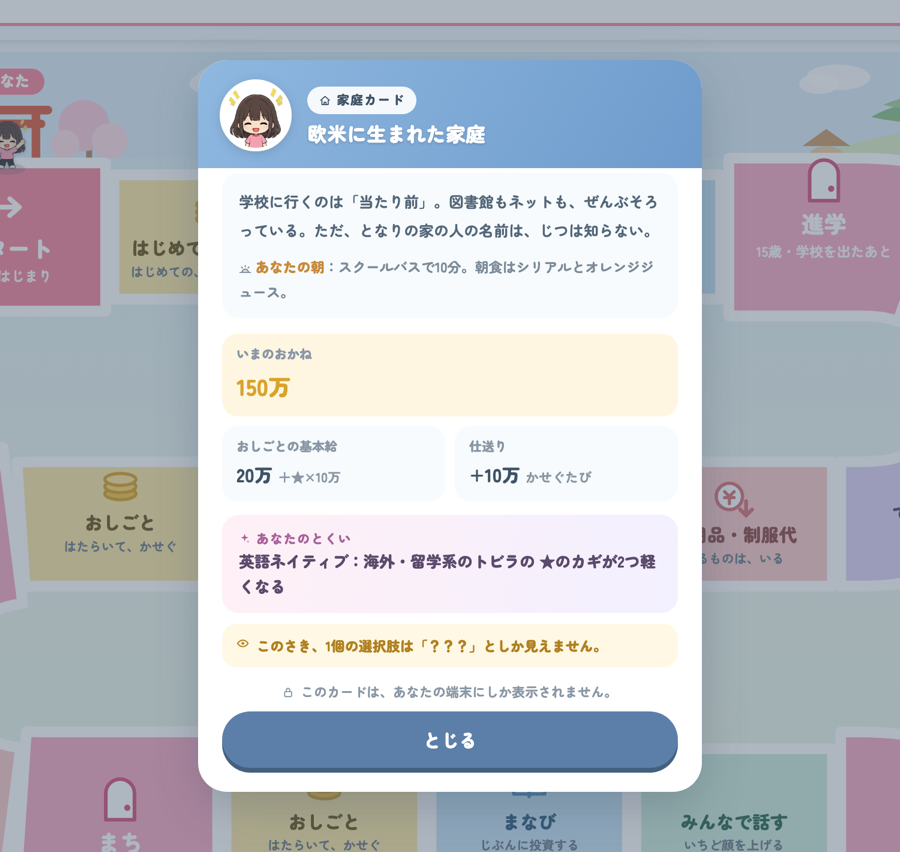
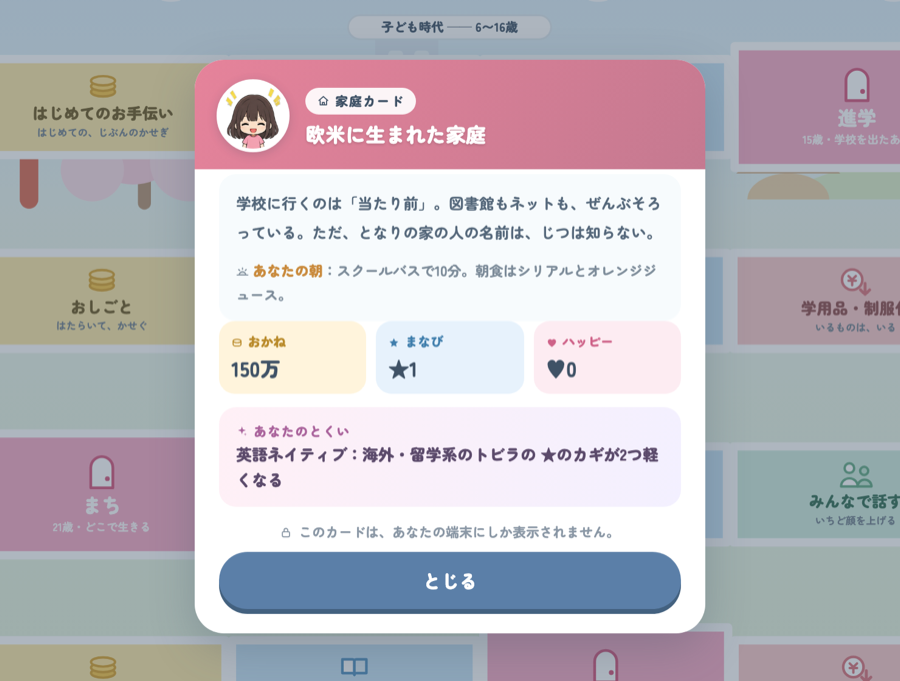
資料をゲームの現状に追従（カード・トビラの2段階化・Storybook撮影へ）
ゲーム側の更新（家庭カードの整理、トビラの選び方の作りなおし）に資料を合わせた。

- 家庭カードから基本給・仕送り・「？？？の枚数」の表示が消えたので、
  スライド5の文言を「カードに出るのは物語・持ちもの・とくいだけ。
  基本給と掛け率は画面に出ないまま効き続ける」に変更。数字を出すのはこのスライドだけに
- トビラの選び方が2段階（一覧→確認）になったので、スライド11を作りなおし。
  一覧＋確認の2枚を矢印でつなぎ、「開けてみるまで開くか分からない」を芯にした
- かせぎの式のスライドから「さっきカードで見たとおり」を削除
- 音・あそびかた・じぶんのカードのボタンを台本のルール説明に追加
- スクリーンショットは Storybook のストーリーから撮る方式に変更。
  実物のゲーム画面を preview API で描くので、app.js への一時フックが不要になった。
  使用ストーリーIDと手順を SLIDES_BRIEF.md に記載

diff --git a/slides.html b/slides.html
@@ -109,6 +109,11 @@ h1 .em-g{color:var(--money);}
 
 /* 横長スクリーンショットを大きく見せる積みレイアウト */
 .figstack{display:flex; flex-direction:column; align-items:center; gap:1.6vmin; width:100%; min-height:0; flex:1;}
+.figpair{display:flex; align-items:center; justify-content:center; gap:1.6vmin; width:100%; min-height:0; flex:1;}
+.figpair figure{display:flex; flex-direction:column; align-items:center; gap:.8vmin; min-height:0; height:100%; flex:1 1 0;}
+.figpair img{min-height:0; flex:1; width:100%; object-fit:contain;}
+.figpair figcaption{font-size:1.9vmin; font-weight:900; color:var(--btn);}
+.figpair .arrow{flex:none; font-size:4vmin; font-weight:900; color:var(--pink);}
 .figstack .fig{min-height:0; flex:1; width:100%; display:flex; align-items:center; justify-content:center;}
 .figstack .fig img{max-width:100%; max-height:100%; min-height:0; object-fit:contain;}
 .notes{display:grid; grid-template-columns:repeat(3,1fr); gap:1.4vmin; width:92vw; max-width:1600px;}
@@ -296,7 +301,7 @@ h1 .em-g{color:var(--money);}
     <figure><img class="shot" src="slides/fam5.png" alt="支援と出会えた、ウガンダの遺児の家庭"><figcaption>遺児・<b>支援と出会えた</b>：はじめ20万／基本給10万＋★×5万</figcaption></figure>
     <figure><img class="shot" src="slides/fam6.png" alt="まだ支援と出会えていない、ウガンダの遺児の家庭"><figcaption>遺児・<b>まだ出会えていない</b>：数字は左とまったく同じ</figcaption></figure>
   </div>
-  <p class="lead">ウガンダ育ちは<b>★1つが5万</b>、それ以外は10万——同じ学びでも、実り方が違う。<br>下の2枚は数字がまったく同じで、違うのは<b>支援を知っているかどうか</b>だけ。</p>
+  <p class="lead">カードに出るのは<b>物語・いまの持ちもの・とくい</b>だけ。<br>下に書いた<b>基本給と掛け率は、画面には出ないまま</b>ずっと効き続けます。</p>
 </section>
 
 <!-- ========== 6. 今日いちばん見てほしいこと ========== -->
@@ -373,14 +378,18 @@ h1 .em-g{color:var(--money);}
 <section class="slide" data-part="ルール" data-ic="door">
   <div class="kicker pink"><svg class="ic"><use href="#ic-door"/></svg>トビラとカギ — ここがこのゲームの核心</div>
   <div class="figstack">
-    <div class="fig"><img class="shot" src="slides/choice.png" alt="トビラの選択画面"></div>
+    <div class="figpair">
+      <figure><img class="shot" src="slides/choicelist.png" alt="トビラの選択肢一覧"><figcaption>1. どの道を選ぶか</figcaption></figure>
+      <span class="arrow">→</span>
+      <figure><img class="shot" src="slides/confirmlock.png" alt="カギが足りなかった確認画面"><figcaption>2. 開くかどうかは、選んでから分かる</figcaption></figure>
+    </div>
     <div class="notes">
-      <div class="note"><span class="t" style="color:#4CA872"><svg class="ic"><use href="#ic-door"/></svg>開ける</span>
-        <span class="d">カギ（おかね・★まなび）が足りている。0円の道はいつでも選べる</span></div>
-      <div class="note"><span class="t" style="color:#C98A3C"><svg class="ic"><use href="#ic-lock"/></svg>カギ不足</span>
-        <span class="d">見えてはいる。でも、いま足りない</span></div>
+      <div class="note"><span class="t"><svg class="ic" style="color:var(--pink)"><use href="#ic-door"/></svg>一覧に出るのは名前だけ</span>
+        <span class="d">カギがいくつ必要かは、ここでは分からない</span></div>
+      <div class="note"><span class="t" style="color:#C98A3C"><svg class="ic"><use href="#ic-lock"/></svg>選んで、はじめて分かる</span>
+        <span class="d">カギが足りなければ「このトビラは開かなかった」。カギの要らない道は必ず選べる</span></div>
       <div class="note"><span class="t" style="color:#7E6BC4"><svg class="ic"><use href="#ic-eye"/></svg>？？？</span>
-        <span class="d">そもそも中身が見えない。何があったのかも分からない</span></div>
+        <span class="d">そもそも中身が見えない。選ぶことすらできない</span></div>
     </div>
   </div>
 </section>
@@ -392,7 +401,7 @@ h1 .em-g{color:var(--money);}
     <div class="fig"><img class="shot" src="slides/money.png" alt="おしごとマスの画面"></div>
     <div class="band" style="font-size:2.7vmin;">
       かせぎ ＝ <span class="hi-b">基本給</span> ＋ ★まなび × <span class="hi-b">掛け率</span> ＋ 仕送り<br>
-      <span style="font-size:2.2vmin; font-weight:700;">この基本給も掛け率も、<span class="hi">家庭カードで決まっています</span>。同じマス・同じ★でも、入るお金は違う</span>
+      <span style="font-size:2.2vmin; font-weight:700;">この基本給も掛け率も、<span class="hi">生まれた場所で決まっています</span>。<br>カードには出てきません。<b>この画面ではじめて見える数字</b>です</span>
     </div>
   </div>
 </section>

diff --git a/SLIDES_SCRIPT.md b/SLIDES_SCRIPT.md
@@ -24,8 +24,8 @@
 
 - 学生募金の学生は、いずれ**この教材を届ける側**になる。設計が分かっていないと届けられない
 - 6枚を先に見ることで「自分に配られた1枚が、6つのうちのどれか」という緊張が最初から立つ
-- **伏せたままなのは「？？？」の中身のほう。** カードには「このさきN個の選択肢は？？？としか見えません」
-  としか出ないので、**結果発表の種明かし（本当は何だったのか）は今までどおり効きます**
+- **伏せたままなのは「？？？」の中身のほう。** カード自体にはヒントも出ないので、
+  **結果発表の種明かし（本当は何だったのか）は今までどおり効きます**
 
 → この判断が正しかったかは、検証パート（スライド28）で学生に聞いてください。
 
@@ -112,8 +112,17 @@
 
 > ゲームが始まると、**自分の画面にだけ**カードが1枚配られます。この6種類のどれかです。
 > ふつうは自分の1枚しか見られませんが、今日は**先に6枚とも開けて**見ていきます。
+>
+> カードに出るのは、**物語と、いまの持ちものと、とくい**だけ。
+> 下に書いた**基本給と掛け率は、ゲーム中どこにも表示されません。**
+> 表に出ないまま、19年間ずっと効き続けます。
+>
+> 見てほしいのは下の2枚です。おかねも基本給も**まったく同じ**。
+> 違うのは、**支援を知っているかどうか**だけ。
 
-【1枚ずつ読み上げない。「6種類ある」と見せるだけ。次の3枚で拡大する】
+【1枚ずつ読み上げない。下段の遺児2枚だけ指さして対比させる】
+【⚠ カードから「基本給」「仕送り」の表示が外れた（2026-09-14 のゲーム更新）。
+　数字を出すのはこのスライドだけなので、キャプションを読み上げること】
 
 ## 6. 今日いちばん見てほしいこと
 
@@ -170,28 +179,40 @@
 >
 > どのマスも、止まったら画面が出て、**OKを押すと次の人の番**になります。
 
+> 画面の右上に、**「進行」「音」「あそびかた」「じぶんのカード」**のボタンがあります。
+> 音が出ます。うるさければ「音」で切ってください。
+> ルールを忘れたら「あそびかた」、自分のカードを見返すときは「じぶんのカード」です。
+
+【「進行」は進行役だけに出る。手番とばしや参加者を外す操作なので、参加者には説明しなくてよい】
+
 ## 11. トビラとカギ ★ここが核心
 
 > ここがこのゲームの核心です。トビラでは道を選びます。画面を見てください。
 >
-> 選択肢には**3つの状態**があります。
-> ひとつめ、**開ける**。カギ——必要なおかねや★まなび——が足りている状態です。
-> カギの要らない0円の道は、いつでも必ず選べます。詰むことはありません。
+> まず左。**選択肢には名前しか出ません。** どれにカギがいくつ必要かは、ここでは分かりません。
 >
-> ふたつめ、**カギ不足**。鍵マークがついています。見えてはいる。でも、いま足りない。
+> ひとつ選ぶと、右の確認画面になります。
+> ここで**はじめて**カギが出て、足りていれば開く。足りなければ——
+> 「カギが足りない……このトビラは開かなかった」と出て、ほかのトビラを選び直すことになります。
 >
-> みっつめ。**？？？**。これは**そもそも中身が見えない**。何があったのかも分かりません。
+> カギの要らない道は、いつでも必ず選べます。詰むことはありません。
 >
-> この3つの違いを、覚えておいてください。あとで効いてきます。
+> そしてもうひとつ。**？？？**。これは**そもそも中身が見えない**。
+> 名前も分からないので、選ぶことすらできません。
+>
+> つまり——**開けてみるまで、開くかどうか分からない。** これを覚えておいてください。
 
 【？？？が「なぜ見えないのか」はここでは説明しない。結果発表の種明かしが弱くなる】
+【⚠ トビラの選び方が2段階になった（2026-09-14 のゲーム更新）。
+　以前のように一覧で🔒が見えることはもうない。「選んでから分かる」が新しい体験の芯】
 
 ## 12. かせぎの式
 
 > おしごとのマスに止まると、この画面が出ます。
 > **かせぎ ＝ 基本給 ＋ ★まなび × 掛け率 ＋ 仕送り。**
 >
-> さっきカードで見たとおり、**基本給も掛け率も、生まれた場所で決まっています。**
+> **基本給も掛け率も、生まれた場所で決まっています。**
+> そしてこの数字は、**カードにも盤面にも出てきません。この画面ではじめて見えます。**
 > 同じマスに止まって、同じ★を持っていても、入るお金は違う。
 
 【⚠ おしごとのマスは飛びこされやすく、**35%の人は一度も止まらない**（README「この副作用は承知のうえ」）。

diff --git a/SLIDES_BRIEF.md b/SLIDES_BRIEF.md
@@ -118,20 +118,36 @@
 
 ## スクリーンショットの撮りかた（`slides/*.png` を撮りなおすとき）
 
-ゲームの見た目を変えたら、スライドの図も撮りなおす。手順：
+ゲームの見た目を変えたら、スライドの図も撮りなおす。**Storybookから撮るのがいちばん確実**——
+ストーリーは実物のゲーム画面をiframeで描き、`window.__tobira.preview()` で状態を流しこむので、
+一時フックもwranglerも要らない。
 
-1. `public/app.js` の末尾に一時フックを足す。`?shot=<名前>` を読んで、目的の画面まで自動で進め、
-   終わったら `window.__shotReady = true` を立てる。`&bare=1` で背景とヘッダーを消し、モーダルだけにする
-2. `npx wrangler dev` を起動
-3. ヘッドレスChromeをCDP（`--remote-debugging-port`）で叩き、`__shotReady` が立つまで**実時間で待って**
-   `Page.captureScreenshot` の `clip` で要素だけ切り出す。
-   **`--virtual-time-budget` は使わない**——WebSocketの往復を待たずに仮想時間が進み、描画途中で撮れてしまう
-4. `sips --resampleWidth <幅>` で縮める（`-Z` は長辺基準なので縦長の画面が潰れる。使わないこと）
-5. **`git checkout public/app.js` でフックを必ず戻す**
+1. `npm run storybook`（6006番）
+2. `http://localhost:6006/index.json` でストーリーIDを確認
+3. ヘッドレスChromeをCDP（`--remote-debugging-port`）で叩き、
+   `iframe.html?id=<ID>&viewMode=story&globals=locale:ja` を 1440×900・`deviceScaleFactor:2` で開く
+4. **内側のiframeが描き終わるまで実時間で待つ**
+   （`document.querySelector('iframe').contentDocument` の `.screen.active` に中身が入るまで。
+   モーダルつきなら `#modalBox` の幅が10px超になるまで）。
+   **`--virtual-time-budget` は使わない**——描画途中で撮れてしまう
+5. `sips --resampleWidth <幅>` で縮める（`-Z` は長辺基準なので縦長が潰れる。使わないこと）
 
-撮る画面：`lobby` / `fam1`〜`fam6`（6種の家庭カード）/ `board` / `choice`（開ける・🔒・？？？が並ぶ大学のトビラ）/
-`money`（かせぎの式）/ `talk`（はなしあい）/ `result` / `reveal`。
-盤面はタイルがアニメーションで出るので、`#board` に「ゴール」の文字が出るまで待ってから撮ること。
+使っているストーリー：
+
+| ファイル | ストーリーID |
+| --- | --- |
+| `lobby` | `01-lobby-room-entry--initial` |
+| `fam1`〜`fam6` | `05-family-card-family-variants--western / japan / uganda / expat / orphan-with-support / orphan-without-support` |
+| `board` | `03-game-board-turn-states--dice-turn` |
+| `choicelist` | `08-doors-availability-and-confirmation--choice-list-mixed` |
+| `confirmlock` | `08-doors-availability-and-confirmation--confirm-locked-money` |
+| `money` | `06-events-information-and-status-changes--income-gain` |
+| `talk` | `06-events-information-and-status-changes--talk-together` |
+| `result` | `11-results-end-of-game--multiplayer` |
+| `reveal` | `12-reveal-individual-player--mixed-door-states` |
+
+家庭カードの6枚は、カード部分だけ切り出している（`sips -c 1120 1480 --cropOffset 330 700`）。
+盤面が背後に残るのでPC画面と分かる。
 
 ## コンテキスト
 

diff --git a/README.md b/README.md
@@ -282,9 +282,9 @@ Cloudflare Workers + Durable Objects（無料枠）。
 スライドは**ゲーム本体と同じデザイン**（`#F2F9FD` 地・Zen Maru Gothic・絵文字なしのSVGアイコン）で作ってある。
 アイコンは `public/index.html` のスプライトをそのままコピーしているので、**ゲーム側のアイコンを変えたら貼りなおすこと**。
 
-`slides/*.png` は、`?shot=<名前>` で目的の画面まで自動で進める一時フックを `public/app.js` に足し、
-ヘッドレスChromeをCDPで叩いて撮ったもの（フックはコミットしていない）。撮りなおす手順は
-`SLIDES_BRIEF.md` の「スクリーンショットの撮りかた」を参照。
+`slides/*.png` は**Storybookのストーリーから撮っている**。ストーリーは実物のゲーム画面を
+iframeで描いて `window.__tobira.preview()` で状態を流しこむ作りなので、**一時フックはもう要らない**。
+撮りなおす手順は `SLIDES_BRIEF.md` の「スクリーンショットの撮りかた」を参照。
 
 ## テスト
 
